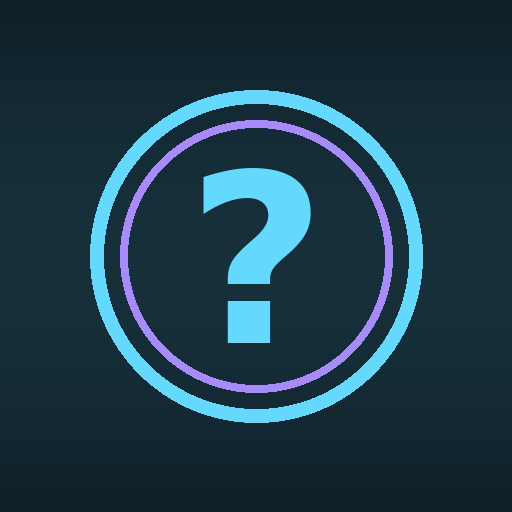
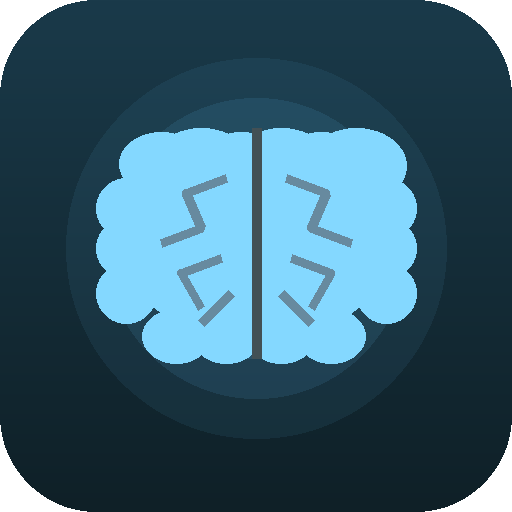
Add files via upload

diff --git a/index.html b/index.html
@@ -9,7 +9,11 @@
 <meta name="apple-mobile-web-app-status-bar-style" content="black-translucent" />
 <meta name="mobile-web-app-capable" content="yes" />
 <link rel="manifest" href="./manifest.json" />
-<link rel="apple-touch-icon" href="./icon.png" />
+<link rel="icon" type="image/x-icon" href="./favicon.ico" />
+<link rel="icon" type="image/png" sizes="32x32" href="./icon-32.png" />
+<link rel="icon" type="image/png" sizes="192x192" href="./icon-192.png" />
+<link rel="apple-touch-icon" href="./icon-180.png" />
+<link rel="apple-touch-icon" sizes="180x180" href="./icon-180.png" />
 <style>
   * { box-sizing: border-box; -webkit-tap-highlight-color: transparent; }
   html, body { margin: 0; padding: 0; background: #0f2027; overscroll-behavior: none; }